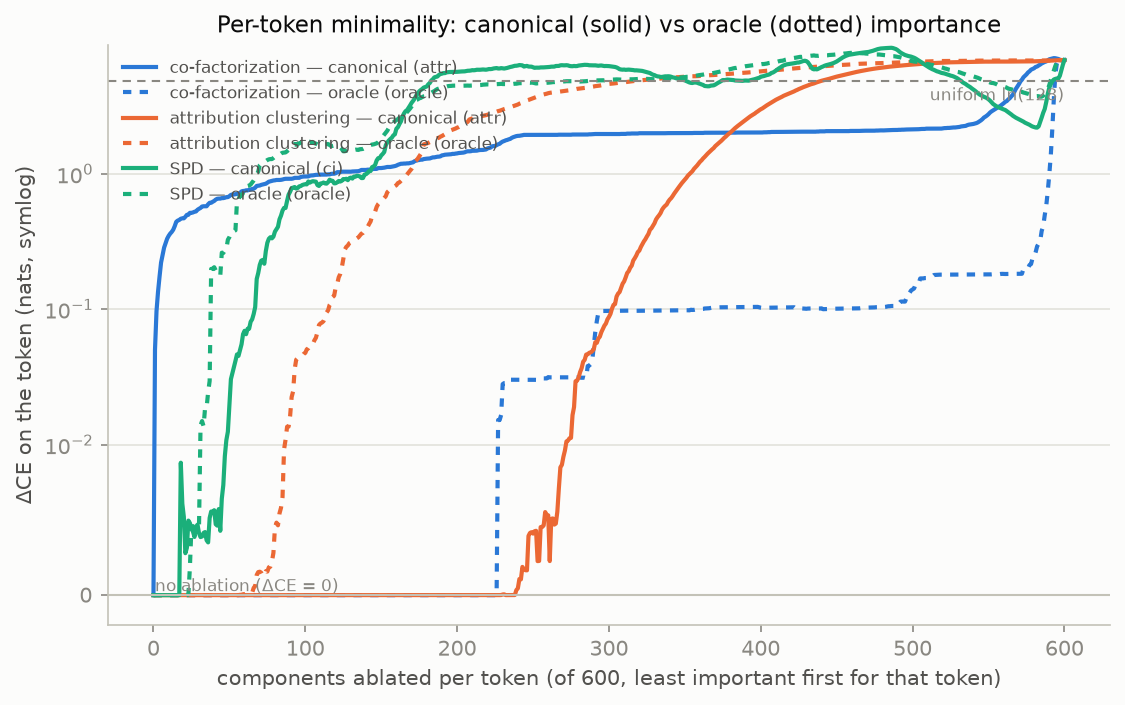
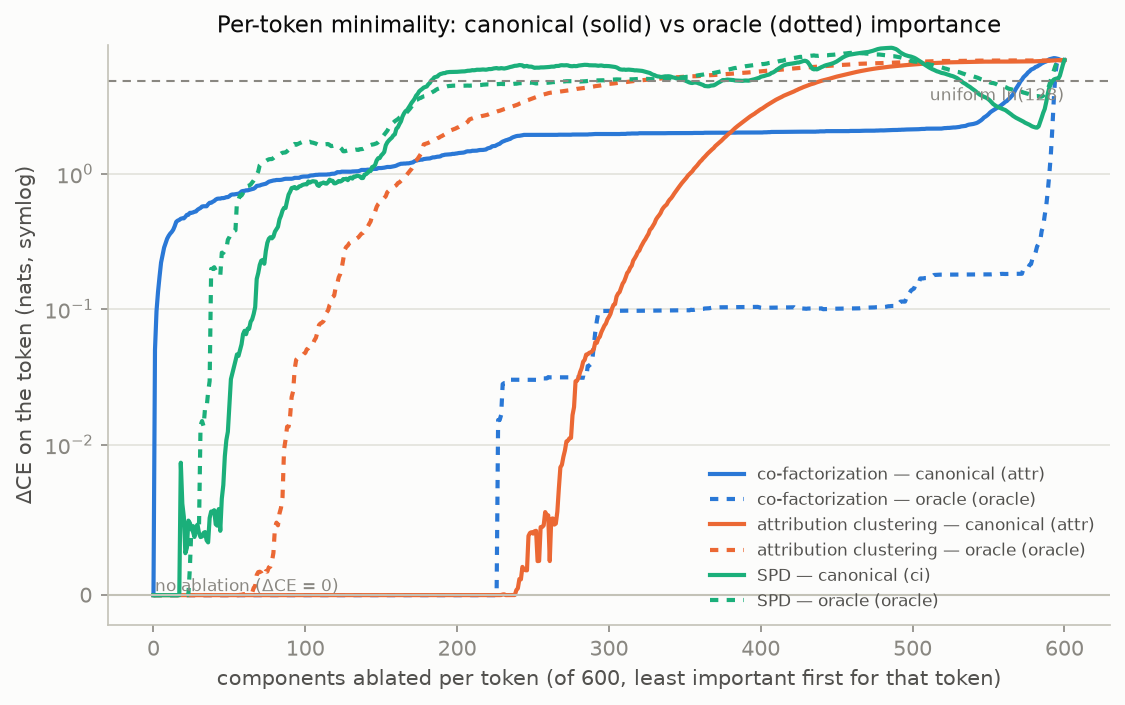
chart: legend bottom-right
Claude-Session: https://claude.ai/code/session_01H3gD9brqT1XJjbJgPALijy

Changed region(s): [[0.6222, 0.6553, 0.9644, 0.8738], [0.1244, 0.0936, 0.4356, 0.2809]]

diff --git a/parfact/compare_ablation.py b/parfact/compare_ablation.py
@@ -82,7 +82,7 @@ def plot_oracle_pair(ours: dict, prev: dict, spec: str, path: Path,
     for s in ("left", "bottom"):
         ax.spines[s].set_color("#c3c2b7")
     ax.legend(frameon=False, fontsize=8, labelcolor="#52514e",
-              loc="upper left")
+              loc="lower right")
     fig.tight_layout()
     fig.savefig(path, bbox_inches="tight")
     print(f"wrote {path}")
